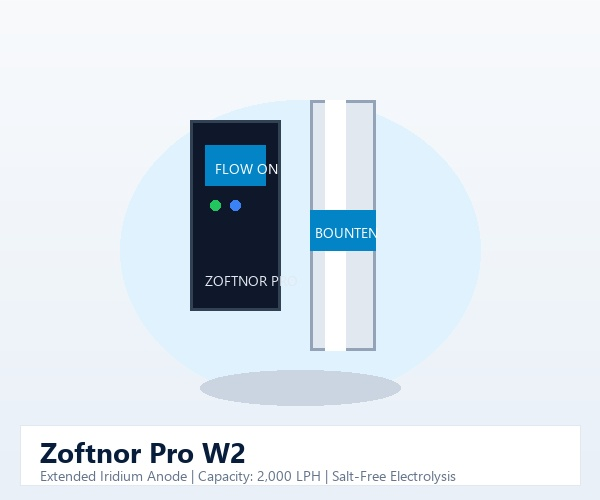
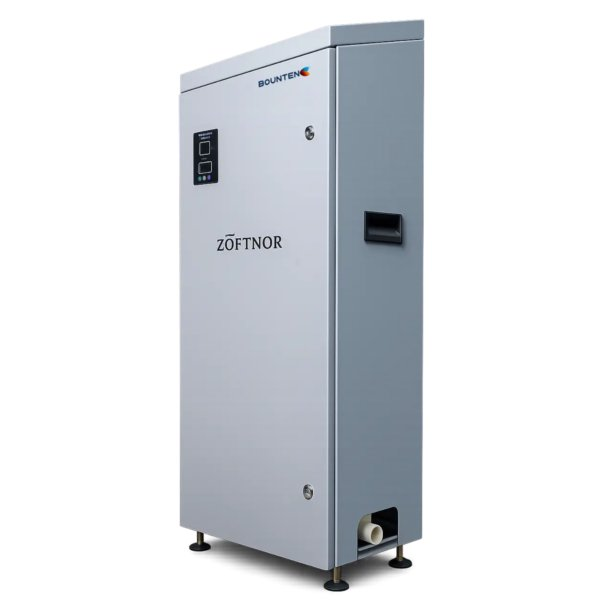
Update Zoftnor Pro W2 product image with authentic cabinet photo and sync with remote

diff --git a/src/data/products.js b/src/data/products.js
@@ -474,7 +474,7 @@ export const PRODUCTS_DATA = [
     "reviewsCount": 52,
     "popularity": 98,
     "dateAdded": "2024-03-05",
-    "image": "/images/products/zoftnor-pro-w2.jpg",
+    "image": "/images/products/zoftnor-pro-w2.png",
     "shortDescription": "High-capacity 2,000 LPH electrolysis conditioning system with Bag Filter for 2-3 BHK homes and independent duplexes.",
     "description": "The Zoftner Pro W2 delivers 2,000 LPH continuous conditioned water with an extended 600mm Iridium MMO anode and a heavy-duty integrated bag filter. Engineered for high-flow multi-bathroom households, it stops scale build-up while removing rust, silt, and sediment without salt bags or water wastage.",
     "specifications": [
